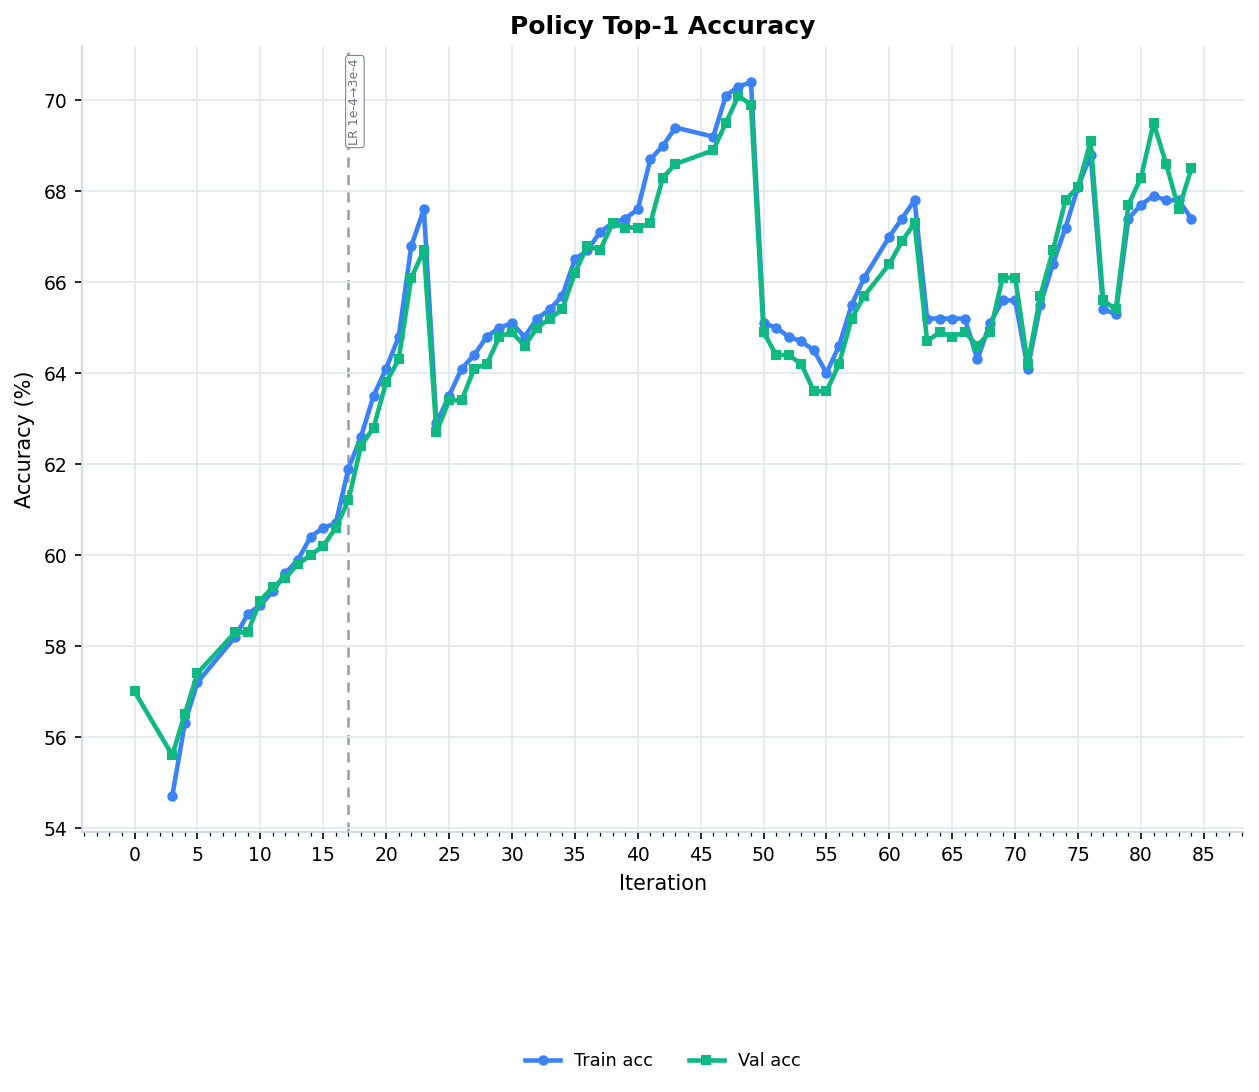
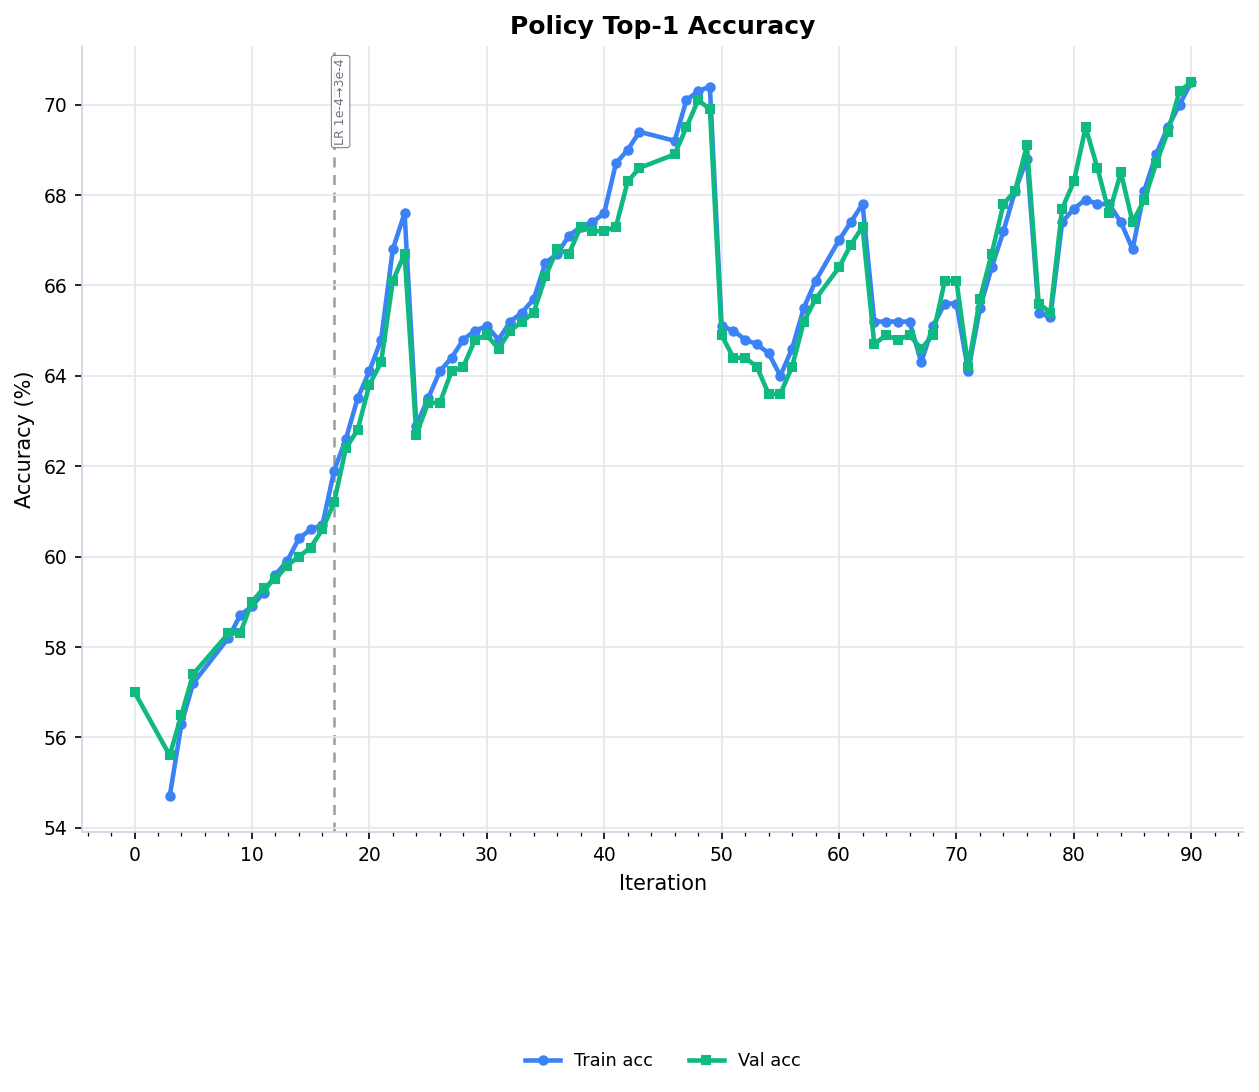
Plots update

diff --git a/chess_ai/plot_metrics.py b/chess_ai/plot_metrics.py
@@ -109,6 +109,8 @@ INTERVENTIONS = [
     {"iter": 87, "label": "TD λ=0.3 + aux", "panels": {"value", "loss"}},
     # Promotion gate 0.55 → 0.50 (unfreeze the self-play generator). Keep in sync with GATE_HISTORY.
     {"iter": 89, "label": "gate 0.55→0.50", "panels": {"winrate", "elo"}},
+    # Lineage OFF (stop the monotonic drift) + train window 20→40. Fresh retrain from champion each iter.
+    {"iter": 91, "label": "lineage off + win40", "panels": {"winrate", "elo", "loss", "value"}},
 ]
 
 
